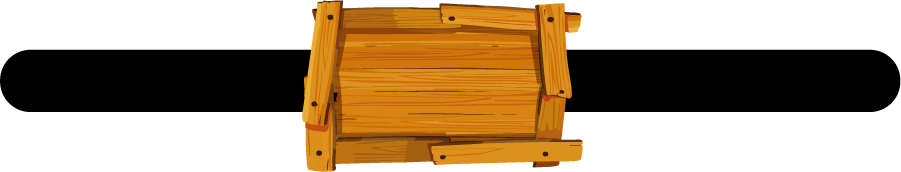
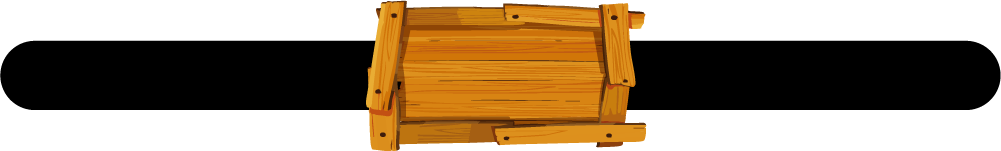
feat:update bg size and scorebar

Changed region(s): [[0.0, 0.0, 1.0, 1.0], [0.5283, 0.2649, 0.5594, 0.2914]]

diff --git a/src/game.py b/src/game.py
@@ -1,4 +1,5 @@
 import copy
+import math
 import os.path
 
 import pandas as pd
@@ -474,7 +475,7 @@ class SwimmingSquidBattle(PaiaGame):
         scene_init_data = {
             "scene": self.scene.__dict__,
             "assets": [
-                create_asset_init_data("bg", 1000, 1000, BG_PATH, BG_URL),
+                create_asset_init_data("bg", 1280, 768, BG_PATH, BG_URL),
                 create_asset_init_data(SQUID1_ID, SQUID_W, SQUID_H, SQUID1_PATH, SQUID1_URL),
                 create_asset_init_data(SQUID1_HURT_ID, SQUID_W, SQUID_H, SQUID1_HURT_PATH, SQUID1_HURT_URL),
                 create_asset_init_data(SQUID1_LEFT_1_ID, SQUID_W, SQUID_H, SQUID1_LEFT_1_PATH, SQUID1_LEFT_1_URL),
@@ -490,8 +491,9 @@ class SwimmingSquidBattle(PaiaGame):
                 create_asset_init_data(SQUID2_RIGHT_2_ID, SQUID_W, SQUID_H, SQUID2_RIGHT_2_PATH, SQUID2_RIGHT_2_URL),
                 
                 
-                create_asset_init_data("scorebar", 900, 172, SCOREBAR_PATH, SCOREBAR_URL),
-                create_asset_init_data("star", SQUID_H, SQUID_H, STAR_PATH, STAR_URL),
+                create_asset_init_data("scorebar", 1000, 150, SCOREBAR_PATH, SCOREBAR_URL),
+                create_asset_init_data("colorbar", 350, 50, COLORBAR_PATH, COLORBAR_URL),
+                # create_asset_init_data("star", SQUID_H, SQUID_H, STAR_PATH, STAR_URL),
                 create_asset_init_data(IMG_ID_FOOD01_L, FOOD_LV1_SIZE, FOOD_LV1_SIZE, FOOD01_L_PATH, FOOD01_L_URL),
                 create_asset_init_data(IMG_ID_FOOD02_L, FOOD_LV2_SIZE, FOOD_LV2_SIZE, FOOD02_L_PATH, FOOD02_L_URL),
                 create_asset_init_data(IMG_ID_FOOD03_L, FOOD_LV3_SIZE, FOOD_LV3_SIZE, FOOD03_L_PATH, FOOD03_L_URL),
@@ -551,13 +553,13 @@ class SwimmingSquidBattle(PaiaGame):
                 result.append(
                     create_image_view_data(IMG_ID_DOT_NONE, 200+i*30, 20,20,20)
                 )
-        scorebar1_width = remap(self.squid1.score, 0, self._score_to_pass, 100, 285)
+        scorebar1_width = 350-remap(self.squid1.score, 0, self._score_to_pass, 10, 350)
         
         result.extend(
             [
                 create_text_view_data(f"Lv{self.squid1.lv}", 150, 20, "#EEEEEE", "20px burnfont"),
-                create_rect_view_data("squid1_scorebar", 150, 63, scorebar1_width, 35, "#ffffff"),
-                create_text_view_data(f"{self.squid1.score:03d}/{self._score_to_pass:03d}", 150, 75, "#000000", "20px burnfont"),
+                create_rect_view_data("squid1_scorebar",WIDTH/2-120-scorebar1_width, 50, scorebar1_width, 45, "#000000CC"),
+                create_text_view_data(f"{self.squid1.score:03d}/{self._score_to_pass:03d}", (WIDTH/2-500)+30, 60, "#EEEEEE", "20px burnfont"),
             ]
         )
         return result
@@ -577,14 +579,14 @@ class SwimmingSquidBattle(PaiaGame):
                 result.append(
                     create_image_view_data(IMG_ID_DOT_NONE, 1000+i*30, 20,20,20)
                 )
-        scorebar2_width = remap(self.squid2.score, 0, self._score_to_pass, 100, 285)
+        scorebar2_width = 350-remap(self.squid2.score, 0, self._score_to_pass, 10, 350)
 
         result.extend(
             [
                 create_text_view_data(f"Lv{self.squid2.lv}", 950, 20, "#EEEEEE", "20px burnfont"),
-                create_rect_view_data("squid2_scorebar", WIDTH/2+425-scorebar2_width, 63,scorebar2_width,35,"#e6544d"),
-                create_text_view_data(f"{self.squid2.score:03d}/{self._score_to_pass:03d}", WIDTH-(WIDTH-900)/2-150, 75, "#ffffff", "20px burnfont"),
-            ]
+                create_rect_view_data("squid2_scorebar", WIDTH/2+130,50,scorebar2_width,50,"#000000CC"),
+                create_text_view_data(f"{self.squid2.score:03d}/{self._score_to_pass:03d}", WIDTH/2+370, 60, "#EEEEEE", "20px burnfont"),
+            ]   
         )
         return result
     @check_game_progress
@@ -604,8 +606,12 @@ class SwimmingSquidBattle(PaiaGame):
         game_obj_list.extend(foods_data)
         game_obj_list.extend(help_texts)
         toggle_objs = [
-            create_image_view_data("scorebar", (WIDTH-900)/2, 0, 900, 172),
-            
+            create_image_view_data("scorebar", (WIDTH-1000)/2, 0, 1000, 150),
+            # 1P    
+            create_image_view_data("colorbar", (WIDTH/2-500)+20, 50, 350, 40),
+            # 2P
+            create_image_view_data("colorbar", WIDTH/2+130, 50, 350, 40,math.pi),
+
             create_text_view_data(f"{self._frame_count_down:04d}", (WIDTH)/2-85, 50, "#EEEEEE", "48px burnfont"),
             
         ]

diff --git a/src/env.py b/src/env.py
@@ -225,6 +225,9 @@ SQUID2_LOVELY_URL = ASSET_IMG_URL + "squid2_lovely.png"
 
 SCOREBAR_PATH = path.join(ASSET_IMAGE_DIR, "scorebar.png")
 SCOREBAR_URL = ASSET_IMG_URL + "scorebar.png"
+COLORBAR_PATH = path.join(ASSET_IMAGE_DIR, "colorbar.png")
+COLORBAR_URL = ASSET_IMG_URL + "colorbar.png"
+
 
 IMG_ID_DOT_WIN = "dot_win"
 IMG_ID_DOT_LOSE = "dot_lose"
